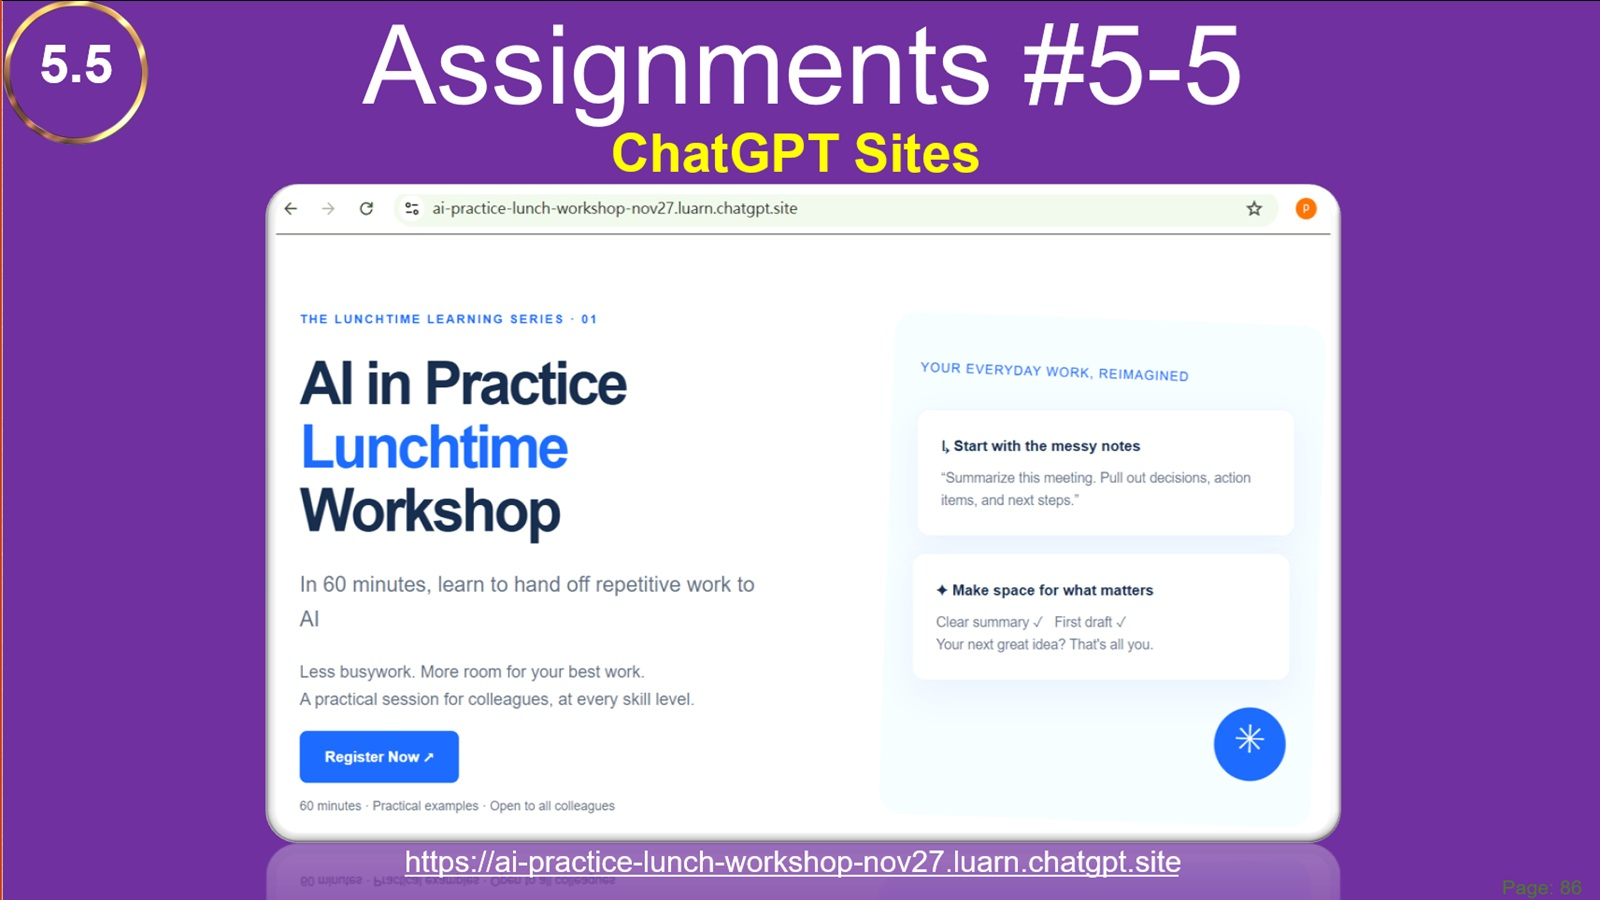
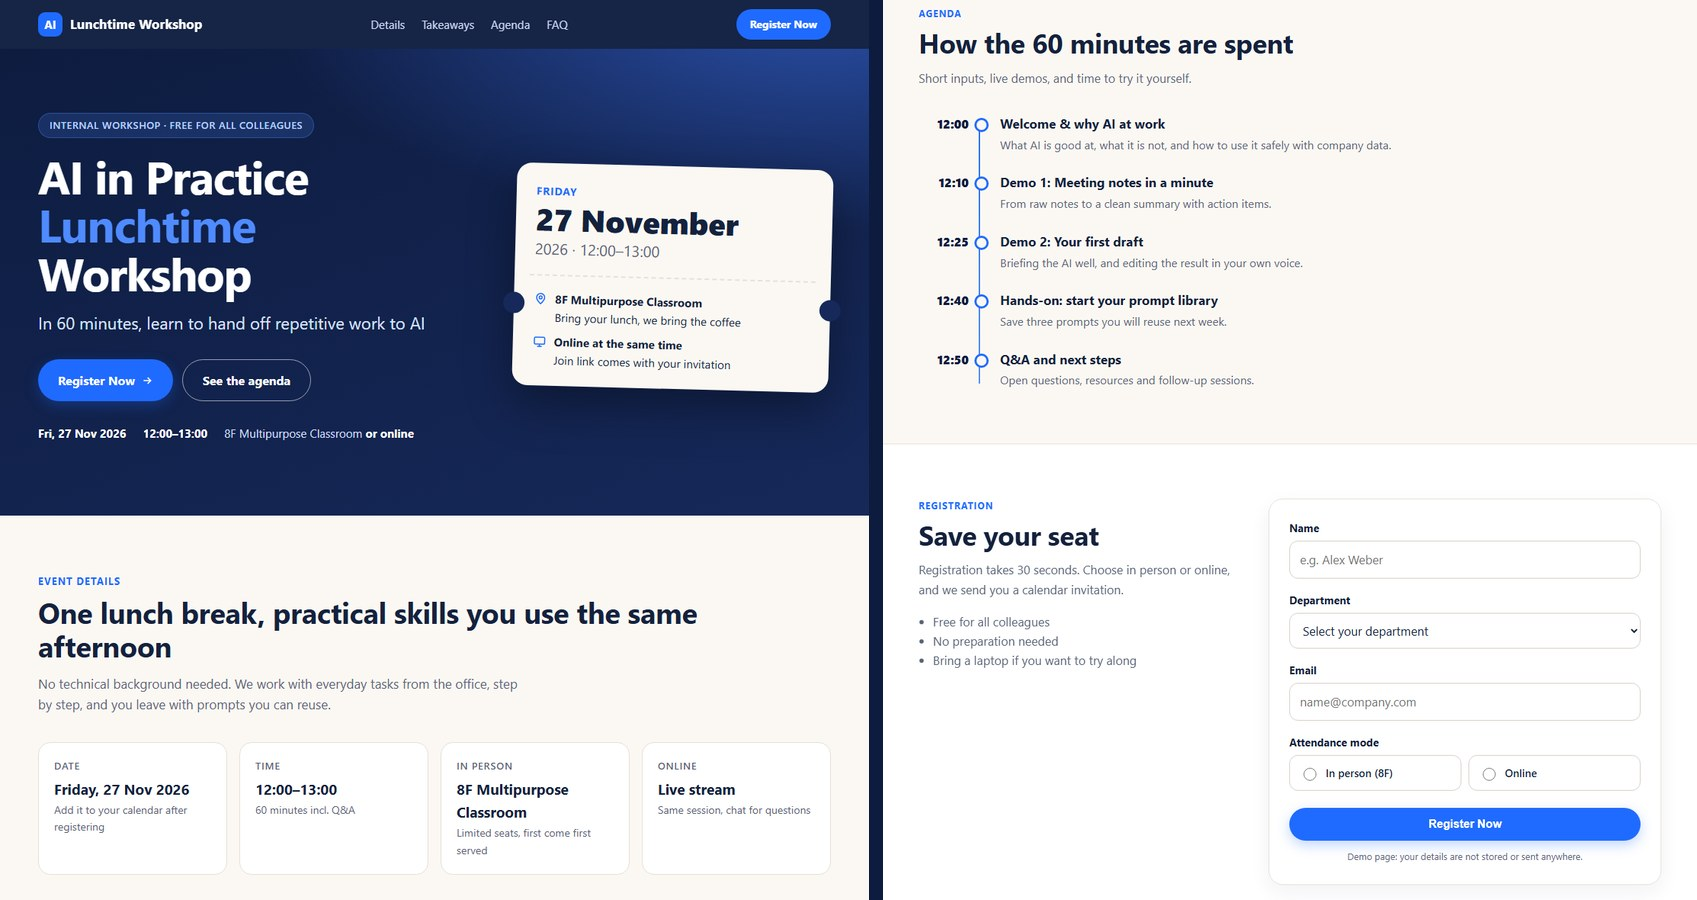
Add unit 5-5: AI in Practice Lunchtime Workshop event registration site

diff --git a/ai-lunch-workshop/index.html b/ai-lunch-workshop/index.html
@@ -1,0 +1,349 @@
+<!doctype html>
+<html lang="en">
+<head>
+<meta charset="utf-8">
+<meta name="viewport" content="width=device-width, initial-scale=1">
+<title>AI in Practice Lunchtime Workshop</title>
+<meta name="description" content="Register for the AI in Practice Lunchtime Workshop: in 60 minutes, learn to hand off repetitive work to AI. Friday, 27 November 2026, 12:00–13:00.">
+<style>
+  :root{
+    --navy:#0d1b3e; --navy-2:#16295a; --blue:#1f6bff; --blue-2:#4f8bff; --blue-soft:#e8f0ff;
+    --warm:#fbf8f3; --card:#ffffff; --ink:#14213d; --muted:#5a6478; --line:#e6e1d8; --ok:#137a4b; --ok-soft:#e6f5ee; --err:#b3261e;
+  }
+  *{box-sizing:border-box}
+  html{scroll-behavior:smooth}
+  body{margin:0;background:var(--warm);color:var(--ink);font:17px/1.6 system-ui,-apple-system,"Segoe UI",Roboto,Helvetica,Arial,sans-serif}
+  a{color:var(--blue)}
+  .wrap{max-width:1080px;margin:0 auto;padding:0 20px}
+  .btn{display:inline-flex;align-items:center;gap:8px;background:var(--blue);color:#fff;text-decoration:none;font-weight:700;border:0;border-radius:999px;padding:14px 26px;font-size:16px;cursor:pointer;box-shadow:0 6px 18px rgba(31,107,255,.28);transition:transform .15s,box-shadow .15s,background .15s}
+  .btn:hover{background:#155ae0;transform:translateY(-1px);box-shadow:0 10px 24px rgba(31,107,255,.34)}
+  .btn:focus-visible,.nav a:focus-visible,summary:focus-visible,input:focus-visible,select:focus-visible{outline:3px solid #ffbf47;outline-offset:2px}
+  .btn.ghost{background:transparent;color:#fff;box-shadow:none;border:1.5px solid rgba(255,255,255,.55)}
+  .btn.ghost:hover{background:rgba(255,255,255,.08)}
+
+  /* header */
+  header{position:sticky;top:0;z-index:10;background:rgba(13,27,62,.96);backdrop-filter:blur(6px)}
+  .nav{display:flex;align-items:center;justify-content:space-between;height:64px}
+  .brand{display:flex;align-items:center;gap:10px;color:#fff;text-decoration:none;font-weight:700;letter-spacing:.01em}
+  .brand i{display:grid;place-items:center;width:32px;height:32px;border-radius:9px;background:var(--blue);font-style:normal;font-size:15px}
+  .nav ul{display:flex;gap:22px;list-style:none;margin:0;padding:0}
+  .nav ul a{color:#cfdaf5;text-decoration:none;font-size:15px}
+  .nav ul a:hover{color:#fff}
+  .nav .btn{padding:9px 18px;font-size:14px;box-shadow:none}
+
+  /* hero */
+  .hero{background:radial-gradient(1200px 500px at 85% -10%,#2a4fa8 0%,transparent 60%),linear-gradient(160deg,var(--navy) 0%,var(--navy-2) 100%);color:#fff;padding:84px 0 96px;overflow:hidden}
+  .hero-grid{display:grid;grid-template-columns:1.25fr .9fr;gap:48px;align-items:center}
+  .pill{display:inline-block;background:rgba(79,139,255,.18);color:#bcd2ff;border:1px solid rgba(79,139,255,.35);border-radius:999px;padding:5px 14px;font-size:13px;font-weight:600;letter-spacing:.04em;text-transform:uppercase}
+  .hero h1{font-size:clamp(36px,5.5vw,60px);line-height:1.06;margin:18px 0 16px;letter-spacing:-.02em}
+  .hero h1 span{color:var(--blue-2)}
+  .hero p.sub{font-size:clamp(18px,2.2vw,22px);color:#d9e3fb;margin:0 0 30px;max-width:560px}
+  .hero .actions{display:flex;flex-wrap:wrap;gap:12px}
+  .hero .facts{display:flex;flex-wrap:wrap;gap:10px 22px;margin-top:30px;color:#cfdaf5;font-size:15px}
+  .hero .facts b{color:#fff}
+  .ticket{background:var(--warm);color:var(--ink);border-radius:20px;padding:26px 26px 22px;box-shadow:0 24px 60px rgba(0,0,0,.35);transform:rotate(1.5deg);position:relative}
+  .ticket::before,.ticket::after{content:"";position:absolute;top:58%;width:28px;height:28px;border-radius:50%;background:var(--navy-2)}
+  .ticket::before{left:-14px}.ticket::after{right:-14px}
+  .ticket .day{font-size:14px;font-weight:700;color:var(--blue);text-transform:uppercase;letter-spacing:.06em}
+  .ticket .date{font-size:40px;font-weight:800;line-height:1.05;margin:4px 0 2px}
+  .ticket .time{font-size:20px;color:var(--muted)}
+  .ticket hr{border:0;border-top:2px dashed var(--line);margin:18px -6px}
+  .ticket .where{display:grid;gap:8px;font-size:15px}
+  .ticket .where div{display:flex;gap:10px;align-items:flex-start}
+  .ticket svg{flex:none;margin-top:3px}
+
+  section{padding:76px 0}
+  .eyebrow{color:var(--blue);font-weight:700;font-size:13px;letter-spacing:.08em;text-transform:uppercase;margin:0 0 8px}
+  h2{font-size:clamp(28px,3.6vw,38px);line-height:1.15;margin:0 0 14px;letter-spacing:-.01em}
+  .lead{color:var(--muted);max-width:640px;margin:0 0 36px}
+
+  /* details */
+  .details{display:grid;grid-template-columns:repeat(4,1fr);gap:16px}
+  .tile{background:var(--card);border:1px solid var(--line);border-radius:16px;padding:20px}
+  .tile .k{font-size:13px;color:var(--muted);text-transform:uppercase;letter-spacing:.06em;font-weight:600}
+  .tile .v{font-size:19px;font-weight:700;margin-top:4px}
+  .tile .s{font-size:14px;color:var(--muted);margin-top:2px}
+
+  /* takeaways */
+  .take{display:grid;grid-template-columns:repeat(3,1fr);gap:18px}
+  .card{background:var(--card);border:1px solid var(--line);border-radius:18px;padding:26px;position:relative;overflow:hidden}
+  .card .ico{width:48px;height:48px;border-radius:14px;background:var(--blue-soft);display:grid;place-items:center;margin-bottom:16px}
+  .card h3{margin:0 0 8px;font-size:20px}
+  .card p{margin:0;color:var(--muted);font-size:16px}
+  .card .n{position:absolute;right:18px;top:12px;font-size:44px;font-weight:800;color:#eef2fb}
+
+  /* speaker */
+  .speaker{display:grid;grid-template-columns:auto 1fr;gap:28px;align-items:center;background:var(--navy);color:#fff;border-radius:22px;padding:34px}
+  .avatars{display:flex}
+  .avatars span{width:64px;height:64px;border-radius:50%;display:grid;place-items:center;font-weight:800;font-size:20px;border:3px solid var(--navy);margin-left:-14px;color:#fff}
+  .avatars span:first-child{margin-left:0}
+  .speaker h3{margin:0 0 6px;font-size:24px}
+  .speaker p{margin:0;color:#cfdaf5}
+
+  /* agenda */
+  .timeline{list-style:none;margin:0;padding:0;position:relative}
+  .timeline::before{content:"";position:absolute;left:84px;top:8px;bottom:8px;width:2px;background:linear-gradient(var(--blue),var(--blue-2))}
+  .timeline li{display:grid;grid-template-columns:70px 1fr;gap:44px;padding:0 0 26px;position:relative}
+  .timeline li:last-child{padding-bottom:0}
+  .timeline time{font-weight:800;color:var(--navy);text-align:right;padding-top:1px}
+  .timeline li::after{content:"";position:absolute;left:78px;top:6px;width:14px;height:14px;border-radius:50%;background:var(--warm);border:3px solid var(--blue)}
+  .timeline h3{margin:0 0 2px;font-size:18px}
+  .timeline p{margin:0;color:var(--muted);font-size:16px}
+
+  /* register */
+  .reg{display:grid;grid-template-columns:.9fr 1.1fr;gap:40px;align-items:start}
+  .reg aside{position:sticky;top:96px}
+  .reg aside ul{padding-left:20px;color:var(--muted);margin:0}
+  form{background:var(--card);border:1px solid var(--line);border-radius:20px;padding:28px;box-shadow:0 10px 30px rgba(13,27,62,.06)}
+  .field{margin-bottom:18px}
+  label,.legend{display:block;font-weight:700;font-size:15px;margin-bottom:6px}
+  input[type=text],input[type=email],select{width:100%;font:inherit;padding:12px 14px;border:1.5px solid #d6d0c4;border-radius:12px;background:#fff;color:var(--ink)}
+  input:invalid:not(:placeholder-shown){border-color:var(--err)}
+  .modes{display:grid;grid-template-columns:1fr 1fr;gap:10px}
+  .modes label{display:flex;align-items:center;gap:10px;border:1.5px solid #d6d0c4;border-radius:12px;padding:12px 14px;font-weight:600;cursor:pointer;margin:0}
+  .modes input{accent-color:var(--blue);width:18px;height:18px}
+  .modes label:has(input:checked){border-color:var(--blue);background:var(--blue-soft)}
+  .err{color:var(--err);font-size:14px;margin-top:6px;display:none}
+  .field.bad .err{display:block}
+  .field.bad input,.field.bad select{border-color:var(--err)}
+  form .btn{width:100%;justify-content:center;margin-top:6px}
+  .note{font-size:13px;color:var(--muted);margin:12px 0 0;text-align:center}
+  .success{display:none;background:var(--ok-soft);border:1.5px solid #9fd6bb;color:var(--ok);border-radius:20px;padding:30px;text-align:center}
+  .success b{display:block;font-size:22px;margin-bottom:4px}
+  .success.show{display:block}
+
+  /* faq */
+  .faq{max-width:780px}
+  details{background:var(--card);border:1px solid var(--line);border-radius:14px;padding:4px 20px;margin-bottom:10px}
+  summary{cursor:pointer;font-weight:700;padding:14px 0;list-style:none;display:flex;justify-content:space-between;gap:16px}
+  summary::-webkit-details-marker{display:none}
+  summary::after{content:"+";color:var(--blue);font-size:22px;line-height:1}
+  details[open] summary::after{content:"–"}
+  details p{margin:0 0 16px;color:var(--muted)}
+
+  footer{background:var(--navy);color:#cfdaf5;padding:44px 0 36px;font-size:15px}
+  .foot{display:flex;flex-wrap:wrap;justify-content:space-between;gap:24px}
+  footer h4{color:#fff;margin:0 0 8px;font-size:16px}
+  footer a{color:#fff}
+  footer small{display:block;margin-top:26px;color:#8fa1c7}
+
+  @media (max-width:880px){
+    .hero-grid,.reg{grid-template-columns:1fr}
+    .ticket{transform:none;max-width:420px}
+    .details{grid-template-columns:1fr 1fr}
+    .take{grid-template-columns:1fr}
+    .reg aside{position:static}
+    .nav ul{display:none}
+  }
+  @media (max-width:520px){
+    body{font-size:16px}
+    section{padding:56px 0}
+    .hero{padding:56px 0 64px}
+    .details{grid-template-columns:1fr}
+    .speaker{grid-template-columns:1fr;padding:26px}
+    .modes{grid-template-columns:1fr}
+    .timeline::before{left:62px}.timeline li{grid-template-columns:50px 1fr;gap:40px}.timeline li::after{left:56px}
+  }
+  @media (prefers-reduced-motion:reduce){html{scroll-behavior:auto}.btn{transition:none}}
+</style>
+</head>
+<body>
+<header>
+  <nav class="nav wrap" aria-label="Main">
+    <a class="brand" href="#top"><i>AI</i>Lunchtime Workshop</a>
+    <ul>
+      <li><a href="#details">Details</a></li>
+      <li><a href="#takeaways">Takeaways</a></li>
+      <li><a href="#agenda">Agenda</a></li>
+      <li><a href="#faq">FAQ</a></li>
+    </ul>
+    <a class="btn" href="#register">Register Now</a>
+  </nav>
+</header>
+
+<main id="top">
+  <section class="hero">
+    <div class="wrap hero-grid">
+      <div>
+        <span class="pill">Internal workshop · Free for all colleagues</span>
+        <h1>AI in Practice <span>Lunchtime</span> Workshop</h1>
+        <p class="sub">In 60 minutes, learn to hand off repetitive work to AI</p>
+        <div class="actions">
+          <a class="btn" href="#register">Register Now
+            <svg width="16" height="16" viewBox="0 0 24 24" fill="none" stroke="currentColor" stroke-width="2.5" aria-hidden="true"><path d="M5 12h14M13 6l6 6-6 6"/></svg></a>
+          <a class="btn ghost" href="#agenda">See the agenda</a>
+        </div>
+        <div class="facts"><span><b>Fri, 27 Nov 2026</b></span><span><b>12:00–13:00</b></span><span>8F Multipurpose Classroom <b>or online</b></span></div>
+      </div>
+      <div class="ticket" aria-label="Event summary">
+        <div class="day">Friday</div>
+        <div class="date">27 November</div>
+        <div class="time">2026 · 12:00–13:00</div>
+        <hr>
+        <div class="where">
+          <div><svg width="18" height="18" viewBox="0 0 24 24" fill="none" stroke="#1f6bff" stroke-width="2" aria-hidden="true"><path d="M12 21s-7-6.2-7-11a7 7 0 1 1 14 0c0 4.8-7 11-7 11z"/><circle cx="12" cy="10" r="2.5"/></svg><span><b>8F Multipurpose Classroom</b><br>Bring your lunch, we bring the coffee</span></div>
+          <div><svg width="18" height="18" viewBox="0 0 24 24" fill="none" stroke="#1f6bff" stroke-width="2" aria-hidden="true"><rect x="3" y="5" width="18" height="12" rx="2"/><path d="M8 21h8M12 17v4"/></svg><span><b>Online at the same time</b><br>Join link comes with your invitation</span></div>
+        </div>
+      </div>
+    </div>
+  </section>
+
+  <section id="details">
+    <div class="wrap">
+      <p class="eyebrow">Event details</p>
+      <h2>One lunch break, practical skills you use the same afternoon</h2>
+      <p class="lead">No technical background needed. We work with everyday tasks from the office, step by step, and you leave with prompts you can reuse.</p>
+      <div class="details">
+        <div class="tile"><div class="k">Date</div><div class="v">Friday, 27 Nov 2026</div><div class="s">Add it to your calendar after registering</div></div>
+        <div class="tile"><div class="k">Time</div><div class="v">12:00–13:00</div><div class="s">60 minutes incl. Q&amp;A</div></div>
+        <div class="tile"><div class="k">In person</div><div class="v">8F Multipurpose Classroom</div><div class="s">Limited seats, first come first served</div></div>
+        <div class="tile"><div class="k">Online</div><div class="v">Live stream</div><div class="s">Same session, chat for questions</div></div>
+      </div>
+    </div>
+  </section>
+
+  <section id="takeaways" style="background:#fff;border-top:1px solid var(--line);border-bottom:1px solid var(--line)">
+    <div class="wrap">
+      <p class="eyebrow">What you take away</p>
+      <h2>Three things you can do right after lunch</h2>
+      <p class="lead">Each part has a short live demo and a ready-to-copy prompt.</p>
+      <div class="take">
+        <article class="card"><span class="n">1</span>
+          <div class="ico"><svg width="24" height="24" viewBox="0 0 24 24" fill="none" stroke="#1f6bff" stroke-width="2" aria-hidden="true"><path d="M5 4h11l3 3v13H5z"/><path d="M8 10h8M8 14h8M8 18h5"/></svg></div>
+          <h3>Summarize meeting notes</h3>
+          <p>Turn messy notes or a transcript into decisions, owners and next steps in under a minute.</p></article>
+        <article class="card"><span class="n">2</span>
+          <div class="ico"><svg width="24" height="24" viewBox="0 0 24 24" fill="none" stroke="#1f6bff" stroke-width="2" aria-hidden="true"><path d="M4 20h4L19 9l-4-4L4 16z"/><path d="M13.5 6.5l4 4"/></svg></div>
+          <h3>Write a first draft of copy</h3>
+          <p>Get a solid first version of an email, announcement or product text, then make it yours.</p></article>
+        <article class="card"><span class="n">3</span>
+          <div class="ico"><svg width="24" height="24" viewBox="0 0 24 24" fill="none" stroke="#1f6bff" stroke-width="2" aria-hidden="true"><path d="M4 5h5v14H4zM10 5h5v14h-5z"/><path d="M16.5 5.5l4.2 1.2-3.7 13.2-4.2-1.2"/></svg></div>
+          <h3>Build your prompt library</h3>
+          <p>Start a personal library of work prompts so good results are one copy-paste away next time.</p></article>
+      </div>
+    </div>
+  </section>
+
+  <section id="speakers">
+    <div class="wrap">
+      <p class="eyebrow">Your hosts</p>
+      <div class="speaker">
+        <div class="avatars" aria-hidden="true"><span style="background:#1f6bff">DT</span><span style="background:#4f8bff">AI</span><span style="background:#2a4fa8">+</span></div>
+        <div>
+          <h3>The Digital Transformation team</h3>
+          <p>Our internal team helps departments try new tools in real work. They will share examples that colleagues already use, and stay after the session for your questions.</p>
+        </div>
+      </div>
+    </div>
+  </section>
+
+  <section id="agenda" style="padding-top:20px">
+    <div class="wrap">
+      <p class="eyebrow">Agenda</p>
+      <h2>How the 60 minutes are spent</h2>
+      <p class="lead">Short inputs, live demos, and time to try it yourself.</p>
+      <ol class="timeline">
+        <li><time>12:00</time><div><h3>Welcome &amp; why AI at work</h3><p>What AI is good at, what it is not, and how to use it safely with company data.</p></div></li>
+        <li><time>12:10</time><div><h3>Demo 1: Meeting notes in a minute</h3><p>From raw notes to a clean summary with action items.</p></div></li>
+        <li><time>12:25</time><div><h3>Demo 2: Your first draft</h3><p>Briefing the AI well, and editing the result in your own voice.</p></div></li>
+        <li><time>12:40</time><div><h3>Hands-on: start your prompt library</h3><p>Save three prompts you will reuse next week.</p></div></li>
+        <li><time>12:50</time><div><h3>Q&amp;A and next steps</h3><p>Open questions, resources and follow-up sessions.</p></div></li>
+      </ol>
+    </div>
+  </section>
+
+  <section id="register" style="background:#fff;border-top:1px solid var(--line);border-bottom:1px solid var(--line)">
+    <div class="wrap reg">
+      <aside>
+        <p class="eyebrow">Registration</p>
+        <h2>Save your seat</h2>
+        <p class="lead" style="margin-bottom:18px">Registration takes 30 seconds. Choose in person or online, and we send you a calendar invitation.</p>
+        <ul><li>Free for all colleagues</li><li>No preparation needed</li><li>Bring a laptop if you want to try along</li></ul>
+      </aside>
+      <div>
+        <form id="regForm" novalidate>
+          <div class="field" id="f-name">
+            <label for="name">Name</label>
+            <input type="text" id="name" name="name" autocomplete="name" placeholder="e.g. Alex Weber" required>
+            <div class="err">Please enter your name.</div>
+          </div>
+          <div class="field" id="f-dept">
+            <label for="dept">Department</label>
+            <select id="dept" name="department" required>
+              <option value="">Select your department</option>
+              <option>Marketing &amp; Communication</option><option>Sales</option><option>Customer Service</option>
+              <option>Finance &amp; Controlling</option><option>HR</option><option>IT</option><option>Operations</option><option>Other</option>
+            </select>
+            <div class="err">Please choose your department.</div>
+          </div>
+          <div class="field" id="f-email">
+            <label for="email">Email</label>
+            <input type="email" id="email" name="email" autocomplete="email" placeholder="name@company.com" required>
+            <div class="err">Please enter a valid email address.</div>
+          </div>
+          <div class="field" id="f-mode">
+            <span class="legend" id="mode-l">Attendance mode</span>
+            <div class="modes" role="radiogroup" aria-labelledby="mode-l">
+              <label><input type="radio" name="mode" value="in-person" required> In person (8F)</label>
+              <label><input type="radio" name="mode" value="online"> Online</label>
+            </div>
+            <div class="err">Please choose how you will join.</div>
+          </div>
+          <button class="btn" type="submit">Register Now</button>
+          <p class="note">Demo page: your details are not stored or sent anywhere.</p>
+        </form>
+        <div class="success" id="success" role="status" aria-live="polite" tabindex="-1">
+          <b>Registration successful.</b>We'll send you a calendar invitation.
+        </div>
+      </div>
+    </div>
+  </section>
+
+  <section id="faq">
+    <div class="wrap faq">
+      <p class="eyebrow">FAQ</p>
+      <h2>Good to know</h2>
+      <details><summary>Do I need any technical knowledge?</summary><p>No. The session is made for everyday office work. If you can write an email, you can follow along.</p></details>
+      <details><summary>Can I join online?</summary><p>Yes. The session is streamed live at the same time. Choose "Online" when you register and the join link comes with your calendar invitation.</p></details>
+      <details><summary>Is lunch provided?</summary><p>Bring your own lunch. Coffee and water are provided in the 8F Multipurpose Classroom.</p></details>
+      <details><summary>Can I use company data with AI tools?</summary><p>Only with the tools approved by IT. We cover the basic do's and don'ts in the first ten minutes.</p></details>
+      <details><summary>Will there be a recording or slides?</summary><p>Yes, all registered colleagues receive the slides and the prompt examples after the workshop.</p></details>
+    </div>
+  </section>
+</main>
+
+<footer>
+  <div class="wrap">
+    <div class="foot">
+      <div><h4>AI in Practice Lunchtime Workshop</h4>Friday, 27 November 2026 · 12:00–13:00<br>8F Multipurpose Classroom &amp; online</div>
+      <div><h4>Contact</h4>Digital Transformation team<br><a href="mailto:digital.transformation@example.com">digital.transformation@example.com</a><br>Internal phone: ext. 2026</div>
+      <div><h4>Quick links</h4><a href="#register">Register</a> · <a href="#agenda">Agenda</a> · <a href="#faq">FAQ</a></div>
+    </div>
+    <small>Course demo page (MMI5194, HS Pforzheim). The event, company and contact details are fictional.</small>
+  </div>
+</footer>
+
+<script>
+  const form = document.getElementById('regForm'), ok = document.getElementById('success');
+  const checks = [
+    ['f-name',  () => document.getElementById('name').value.trim().length > 1],
+    ['f-dept',  () => document.getElementById('dept').value !== ''],
+    ['f-email', () => /^[^\s@]+@[^\s@]+\.[^\s@]+$/.test(document.getElementById('email').value.trim())],
+    ['f-mode',  () => !!form.querySelector('input[name=mode]:checked')]
+  ];
+  form.addEventListener('submit', e => {
+    e.preventDefault();
+    let first = null;
+    for (const [id, test] of checks) {
+      const f = document.getElementById(id), good = test();
+      f.classList.toggle('bad', !good);
+      if (!good && !first) first = f.querySelector('input,select');
+    }
+    if (first) { first.focus(); return; }
+    form.style.display = 'none';
+    ok.classList.add('show'); ok.focus();
+  });
+  form.addEventListener('input', e => { const f = e.target.closest('.field'); if (f) f.classList.remove('bad'); });
+</script>
+</body>
+</html>
